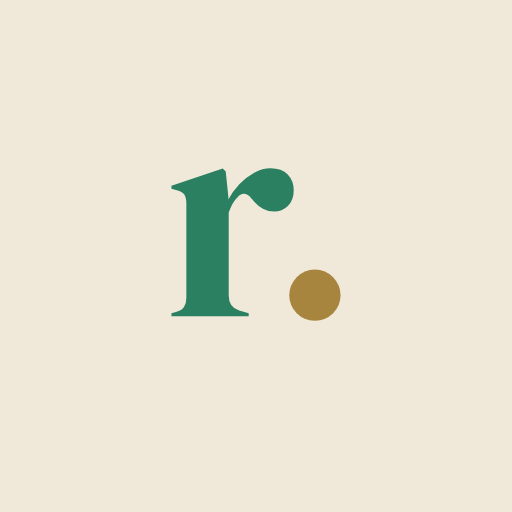
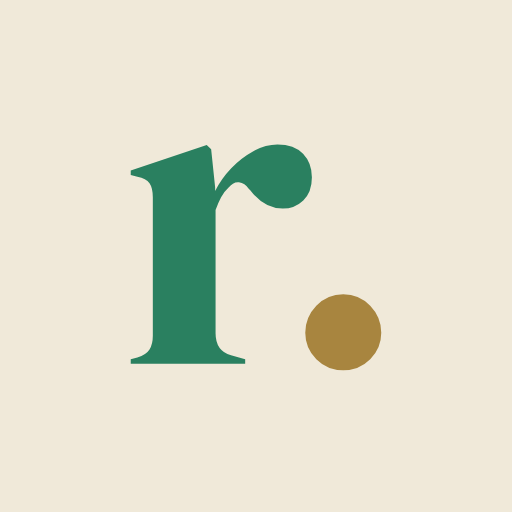
Icône : « r. » agrandi au même encombrement que le dessin d'Occlu (iOS rejetait la variante sombre)
Claude-Session: https://claude.ai/code/session_01VWJn8DpqDdrMmeahULjp92

Changed region(s): [[0.25, 0.2812, 0.625, 0.7188], [0.5625, 0.5, 0.75, 0.75]]

diff --git a/CLAUDE.md b/CLAUDE.md
@@ -183,7 +183,7 @@ Espace/Entrée/flèches/1-4 pour retourner et noter, Ctrl+Z pour annuler ; lettr
 - **Couleur de contraste supprimée** : le vert est imposé. Le script de la couleur est neutralisé (`apply()` et `addSettings()` retournent tout de suite, la clé `revis-accent` est effacée au chargement) ; la ligne et la sous-page `acc` ont disparu des Réglages.
 - **Typographie** : New York (`ui-serif`) pour les titres `h1` et le logo, SF Pro pour le reste. Titre de l'accueil : `rev<span class="rvd">.</span>`.
 - **Matières** : surfaces ivoire quasi pleines pour le contenu (`--gp-fill` .94) ; verre seulement sur la barre du haut, la barre du bas et les feuilles. Fond : voile vert et voile laiton très discrets (`--nv-bg`), **taches animées `#mesh i` supprimées** (`display:none`).
-- **Icône** (18/10/2026, monogramme « r. » choisi par Idriss ; DM Serif Display, police OFL, tracé converti en chemin ; fond ivoire uni `#f0e9d9`, « r » vert moyen `#2a8060` (luminance 0,168, **la même que le rose du cerveau d'Occlu `#C83D70`** ; le vert profond `#173d32`, luminance 0,037, aurait disparu sur un fond noir et iOS refuse alors probablement d'inverser), point laiton `#a8853f`). **Construite comme celle d'Occlu** (dépôt `bertOPLM23/Occlu`, dont l'icône s'assombrit sur l'iPad d'Idriss) : `apple-touch-icon.png` 180×180 RGB opaque ; **`manifest.webmanifest`** (nom rev., `display: standalone`, fond `#f7f3ea`) déclarant `icon-192.png` et `icon-512.png` (RGBA, carré arrondi à 25 %, coins transparents), `icon-maskable-512.png` (opaque plein cadre, dessin réduit à 78 %, `purpose: maskable`) et `favicon.svg` (même carré ivoire arrondi) ; balises `apple-mobile-web-app-capable` et `mobile-web-app-capable` ; `<link rel="icon">` et `apple-touch-icon` pointent vers les fichiers. **Analyse du 18/10/2026** : les `apple-touch-icon` d'Occlu et de rev. étaient alors du même type (180 RGB opaque, fond uni) ; la seule différence restante était le manifeste (+ icônes à transparence), le service worker d'Occlu et ces balises. Essais précédents, tous ratés (sans manifeste) : verte opaque en dégradé ; entièrement transparente (fond noir même en clair) ; ivoire en dégradé ; ivoire + coins transparents ; ivoire uni ; ivoire uni en fichier séparé. **Étape « manifeste » (vert profond) : ratée. Étape « vert moyen » : ratée. Étape « service worker vide » + balises `apple-mobile-web-app-status-bar-style` et `description` (dernières différences avec Occlu) : à confirmer par Idriss.** Il doit retirer rev. de l'écran d'accueil puis la rajouter à chaque changement d'icône.
+- **Icône** (18/10/2026, monogramme « r. » choisi par Idriss ; DM Serif Display, police OFL, tracé converti en chemin ; fond ivoire uni `#f0e9d9`, « r » vert moyen `#2a8060` (luminance 0,168, **la même que le rose du cerveau d'Occlu `#C83D70`** ; le vert profond `#173d32`, luminance 0,037, aurait disparu sur un fond noir et iOS refuse alors probablement d'inverser), point laiton `#a8853f`). **Construite comme celle d'Occlu** (dépôt `bertOPLM23/Occlu`, dont l'icône s'assombrit sur l'iPad d'Idriss) : `apple-touch-icon.png` 180×180 RGB opaque ; **`manifest.webmanifest`** (nom rev., `display: standalone`, fond `#f7f3ea`) déclarant `icon-192.png` et `icon-512.png` (RGBA, carré arrondi à 25 %, coins transparents), `icon-maskable-512.png` (opaque plein cadre, dessin réduit à 78 %, `purpose: maskable`) et `favicon.svg` (même carré ivoire arrondi) ; balises `apple-mobile-web-app-capable` et `mobile-web-app-capable` ; `<link rel="icon">` et `apple-touch-icon` pointent vers les fichiers. **Analyse du 18/10/2026** : les `apple-touch-icon` d'Occlu et de rev. étaient alors du même type (180 RGB opaque, fond uni) ; la seule différence restante était le manifeste (+ icônes à transparence), le service worker d'Occlu et ces balises. Essais précédents, tous ratés (sans manifeste) : verte opaque en dégradé ; entièrement transparente (fond noir même en clair) ; ivoire en dégradé ; ivoire + coins transparents ; ivoire uni ; ivoire uni en fichier séparé. **Étape « manifeste » (vert profond) : ratée. Étape « vert moyen » : ratée. Étape « service worker vide » + balises `apple-mobile-web-app-status-bar-style` et `description` : ratée, mais **indice décisif d'Idriss : l'icône s'assombrit (voile noir) puis redevient normale** → iOS tente bien la variante sombre puis la rejette. Différence mesurée : le dessin d'Occlu couvre 27 % de l'icône (boîte x 24-155, y 39-140 sur 180), le « r. » de rev. seulement 7 % (boîte 51-127 × 50-119). **Étape « monogramme agrandi »** (échelle 1,6, centré : boîte x 33-146, y 39-141, couverture 15 %) : à confirmer.** Il doit retirer rev. de l'écran d'accueil puis la rajouter à chaque changement d'icône.
 - Nom : `<title>` et `apple-mobile-web-app-title` = « rev. ». Le nom du projet Supabase (« Mes révisions ») ne change pas.
 - Contraste mesuré le 18/10/2026 (iPhone 390 px, clair et sombre : accueil, dossier, flashcard recto/verso, QCM avant/après, Réglages, Statistiques) : aucun texte sous 4,5:1, sauf le point laiton du logo (décoratif, 44 px).
 
